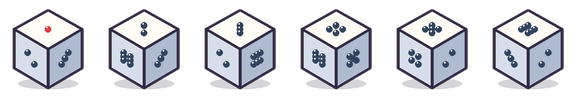
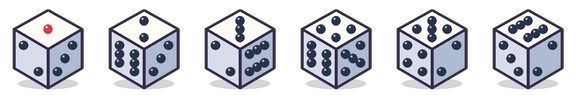
Fix item hint overlap, dice pips and chick marker

diff --git a/packages/client/src/scenes/Field.ts b/packages/client/src/scenes/Field.ts
@@ -5,7 +5,7 @@ import { Tracker, unlock } from '../achievements.js';
 import { DIR_ROW, HEROES, NPC_OF, OBJ_OF, iconStyle } from '../assets.js';
 import { bgm, se } from '../audio.js';
 import { buildChatBar, closeLog, notify, say, setSender, system } from '../chat.js';
-import { onLayout } from '../layout.js';
+import { layout, onLayout } from '../layout.js';
 import { net, type Host, type OnlineHost } from '../net.js';
 import { update } from '../store.js';
 import { $, centerWin, fieldUI, h, menuWin, type MenuItem } from '../ui.js';
@@ -94,12 +94,14 @@ export class Field extends Phaser.Scene {
       host.batch.on((b) => { this.queue.push(b); void this.pump(); }),
       host.askChanged.on(() => this.refreshAsk(true)),
       host.kind === 'online' ? host.chat.on((m) => say({ from: m.from, text: m.text, color: m.color, system: !!m.system })) : () => {},
-      onLayout(() => this.time.delayedCall(0, () => { this.status?.draw(this.view, this.view.turn); this.lookAt(this.actor); })),
+      onLayout(() => this.time.delayedCall(0, () => { this.status?.draw(this.view, this.view.turn); this.lookAt(this.actor); this.positionDesc(); })),
     ];
     this.events.once('shutdown', () => {
       window.removeEventListener('game-exit', exitGame);
       this.offs.forEach((f) => f());
       fieldUI().replaceChildren();
+      $('overlay').querySelectorAll('.item-desc').forEach((el) => el.remove());
+      this.descWin = null;
       closeLog();
       this.scene.stop('Battle');
       this.scene.stop('Overlay');
@@ -239,12 +241,25 @@ export class Field extends Phaser.Scene {
   }
 
   private descWin: HTMLElement | null = null;
+  private positionDesc() {
+    if (!this.descWin) return;
+    const L = layout();
+    const left = L.orient === 'land' ? L.field.x + L.field.size + 8 : 12;
+    const top = L.orient === 'land' ? 164 : L.field.y + L.field.size + 12;
+    this.descWin.style.left = `${left}px`;
+    this.descWin.style.top = `${top}px`;
+    this.descWin.style.width = `${L.w - left - 12}px`;
+  }
+
   private showDesc(it: MenuItem | null) {
     this.descWin?.remove();
     this.descWin = null;
     if (!it?.desc) return;
-    this.descWin = this.addWin(centerWin(140, 240, h('div', {}, it.label), h('div', { style: 'font-size:12px' }, it.desc)));
-    // Keep the hint visible while allowing the second tap to reach the highlighted row beneath it.
+    this.descWin = h('div', { class: 'win item-desc', 'aria-live': 'polite' },
+      h('div', { class: 'item-desc-title' }, it.label), h('div', { class: 'item-desc-copy' }, it.desc));
+    $('overlay').append(this.descWin);
+    this.positionDesc();
+    // A dedicated screen-space window keeps every selectable row unobstructed.
     this.descWin.style.pointerEvents = 'none';
   }
 
@@ -428,6 +443,14 @@ export class Field extends Phaser.Scene {
     if (p.cursed) list.push(this.add.sprite(s.x + 10, s.y - 18, 'fx/curse').play('fx/curse').setScale(0.35).setDepth(99999));
   }
 
+  private syncMarks(seat: number) {
+    const s = this.heroes[seat];
+    for (const mark of this.marks[seat]) {
+      if (mark.texture.key === 'fx/piyo') mark.setPosition(s.x, s.y - 22);
+      else if (mark.texture.key === 'fx/curse') mark.setPosition(s.x + 10, s.y - 18);
+    }
+  }
+
   private fxAt(name: string, wx: number, wy: number, scale = 0.7) {
     if (!this.textures.exists(`fx/${name}`)) return;
     const s = this.add.sprite(wx, wy, `fx/${name}`).setDepth(99998).setScale(scale).play(`fx/${name}`);
@@ -460,6 +483,7 @@ export class Field extends Phaser.Scene {
     switch (e.t) {
       case 'turn':
         this.view = { ...this.view, turn: e.seat, round: e.round };
+        if (end.players[e.seat]) this.setMarks(end.players[e.seat]);
         this.restack();
         this.status.draw(this.view, e.seat);
         this.lookAt(e.seat);
@@ -485,6 +509,7 @@ export class Field extends Phaser.Scene {
       case 'move': {
         const seat = e.seat;
         const s = this.heroes[seat];
+        if (end.players[seat]) this.setMarks(end.players[seat]);
         this.lookAt(seat);
         this.cursor.setVisible(false);
         let px = Math.floor(s.x / T);
@@ -495,6 +520,7 @@ export class Field extends Phaser.Scene {
           // 1マス 5 フレームの直線補間
           await tween(this, { targets: s, x: c.x * T + T / 2, y: c.y * T + T / 2 + CHR_OFFS_Y, duration: frames(5) });
           this.shadows[seat].setPosition(s.x, s.y - CHR_OFFS_Y + 8);
+          this.syncMarks(seat);
           this.overlay.stepFx(s.x, s.y + 10);
           s.setDepth(this.depthOf(c.y, 6));
           se('step');

diff --git a/packages/client/e2e/visual.spec.ts b/packages/client/e2e/visual.spec.ts
@@ -79,9 +79,37 @@ for (const orient of ['land', 'port'] as const) {
           await apple.click();
           await expect(page.locator('.tap-instruction')).toContainText('もう一度タップ');
           await expect(page.locator('.confirm-tap')).toHaveCount(1);
+          const descGeometry = await page.evaluate(() => {
+            const desc = document.querySelector('.item-desc')!;
+            const row = document.querySelector('.confirm-tap')!;
+            const a = desc.getBoundingClientRect();
+            const b = row.getBoundingClientRect();
+            return {
+              separateLayer: desc.parentElement?.id === 'overlay',
+              pointerTransparent: getComputedStyle(desc).pointerEvents === 'none',
+              overlapsChoice: a.left < b.right && a.right > b.left && a.top < b.bottom && a.bottom > b.top,
+            };
+          });
+          expect(descGeometry).toEqual({ separateLayer: true, pointerTransparent: true, overlapsChoice: false });
           expect(await page.evaluate(() => (window as any).__sent)).toEqual([]);
           await apple.click();
           expect(await page.evaluate(() => (window as any).__sent)).toEqual([{ type: 'useItem', slot: 0 }]);
+
+          // Simulate the end of the chick stun followed by movement: its marker must disappear, not remain on the old tile.
+          const chickResult = await page.evaluate(async () => {
+            const f = (window as any).game.scene.getScene('Field');
+            const p = f.view.players[0];
+            p.stun = 1;
+            f.setMarks(p);
+            const destination = f.map.data.path.find((c: any) => Math.abs(c.x - p.x) + Math.abs(c.y - p.y) === 1);
+            if (!destination) throw new Error('No adjacent path cell for the chick-marker test');
+            const end = { ...f.view, players: f.view.players.map((q: any, i: number) => i === 0 ? { ...q, stun: 0, x: destination.x, y: destination.y } : q) };
+            const hadChick = f.marks[0].some((m: any) => m.texture.key === 'fx/piyo');
+            await f.play({ t: 'move', seat: 0, cells: [{ x: destination.x, y: destination.y }] }, end);
+            return { hadChick, chickAfterMove: f.marks[0].some((m: any) => m.texture.key === 'fx/piyo'), position: [f.heroes[0].x, f.heroes[0].y] };
+          });
+          expect(chickResult.hadChick).toBe(true);
+          expect(chickResult.chickAfterMove).toBe(false);
         }
         const beforeRotate = await page.locator('#stage').getAttribute('data-orient');
         await page.getByRole('button', { name: '画面を回転' }).click();

diff --git a/packages/client/src/style.css b/packages/client/src/style.css
@@ -85,6 +85,9 @@ body { font-family: system-ui, 'Hiragino Kaku Gothic ProN', 'Noto Sans JP', 'Mei
 
 /* Items show a restrained hint first; the highlighted row signals the second tap. */
 .tap-instruction { max-width: 248px; margin-top: 5px; padding-top: 5px; border-top: 1px solid #f2d49b80; color: #ffe29a; font-size: 11px; line-height: 16px; text-align: center; white-space: normal; }
+.item-desc { position: absolute; padding: 10px 12px; white-space: normal; overflow-wrap: anywhere; box-shadow: 0 4px 0 #754c44, 0 8px 18px #0008, inset 0 1px 0 #ffffff36; }
+.item-desc-title { margin-bottom: 4px; color: #ffe29a; font-size: 14px; line-height: 19px; font-weight: 900; }
+.item-desc-copy { color: #fffdf6; font-size: 12px; line-height: 17px; }
 .confirm-tap { position: relative; filter: brightness(1.08); }
 .confirm-tap::after { content: 'もう一度'; margin-left: auto; padding: 0 6px; border: 1px solid #ffe7a0; border-radius: 10px; background: #382b49; color: #fff0b0; font-size: 10px; font-weight: 800; line-height: 17px; }
 .win-icon { filter: drop-shadow(0 1px 2px #1d1733); }

diff --git a/gen/polish_assets.py b/gen/polish_assets.py
@@ -46,15 +46,17 @@ def draw_die(top=5, left=2, right=3, gold=False, tilt=0):
     poly(d,[q,m,z,l], '#d7deea' if not gold else '#e7a83a', INK, 3)
     poly(d,[b,r,z,m], '#aebbd0' if not gold else '#d48628', INK, 3)
     def pip(x,y,red=False):
-        color='#d63e45' if red else '#33435f'
-        ell(d,(x-3.2,y-3.2,x+3.2,y+3.2),color,None)
-        ell(d,(x-1.6,y-2.4,x-.2,y-1), '#fff5df' if red else '#f4f6fb', None)
+        color='#d63e45' if red else '#28334a'
+        # Larger, clearly separated round pips like a real ivory tabletop die.
+        ell(d,(x-4.6,y-4.6,x+4.6,y+4.6),color,None)
+        ell(d,(x-2.5,y-3.0,x-.5,y-1.0), '#fff5df' if red else '#aeb8c8', None)
     # Dice pattern positions are set in face-local coordinates.
     def face(points, value, redone=False):
         center=(sum(x for x,_ in points)/4,sum(y for _,y in points)/4)
-        dx=(points[1][0]-points[0][0])*0.18; dy=(points[1][1]-points[0][1])*0.18
-        ex=(points[3][0]-points[0][0])*0.18; ey=(points[3][1]-points[0][1])*0.18
-        loc={1:[(0,0)],2:[(-.55,-.55),(.55,.55)],3:[(-.55,-.55),(0,0),(.55,.55)],4:[(-.55,-.55),(.55,-.55),(-.55,.55),(.55,.55)],5:[(-.55,-.55),(.55,-.55),(0,0),(-.55,.55),(.55,.55)],6:[(-.55,-.55),(.55,-.55),(-.55,0),(.55,0),(-.55,.55),(.55,.55)]}[value]
+        # Use most of the face's inscribed pip grid instead of clustering at its center.
+        dx=(points[1][0]-points[0][0])*0.31; dy=(points[1][1]-points[0][1])*0.31
+        ex=(points[3][0]-points[0][0])*0.31; ey=(points[3][1]-points[0][1])*0.31
+        loc={1:[(0,0)],2:[(-.72,-.72),(.72,.72)],3:[(-.72,-.72),(0,0),(.72,.72)],4:[(-.72,-.72),(.72,-.72),(-.72,.72),(.72,.72)],5:[(-.72,-.72),(.72,-.72),(0,0),(-.72,.72),(.72,.72)],6:[(-.72,-.72),(.72,-.72),(-.72,0),(.72,0),(-.72,.72),(.72,.72)]}[value]
         for i,(u,v) in enumerate(loc):
             pip(center[0]+u*dx+v*ex,center[1]+u*dy+v*ey,redone and i==0)
     face([a,b,m,q],top,top==1)
